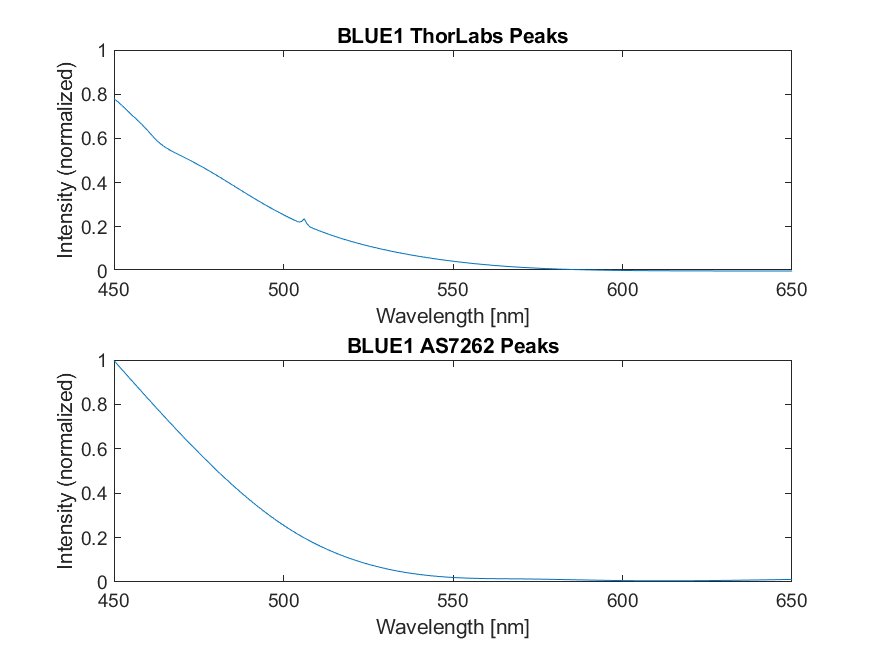
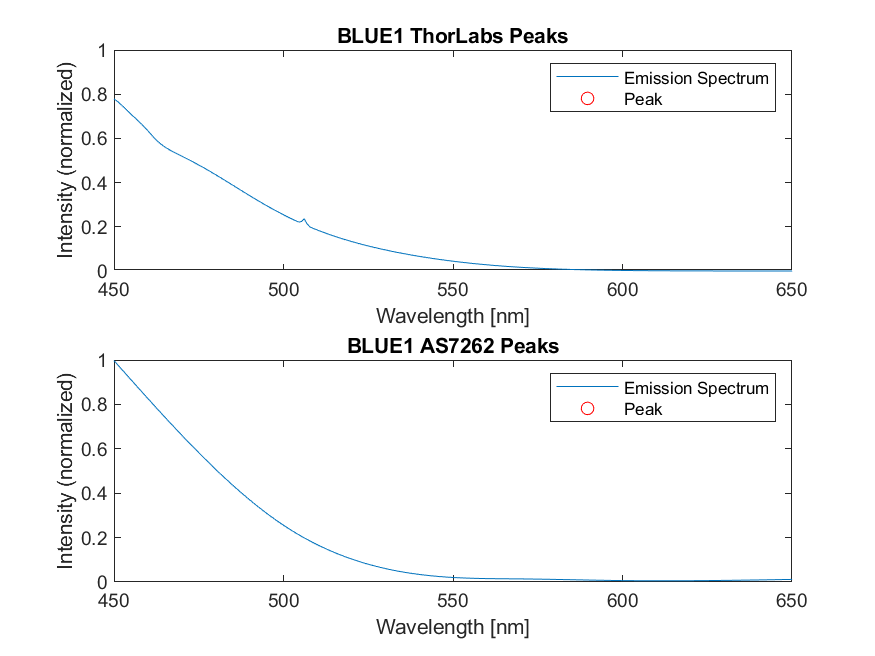
update

diff --git a/MATLAB Code/ResultsSet1/BLUE_LEDs/BLUE_RS1_Code.m b/MATLAB Code/ResultsSet1/BLUE_LEDs/BLUE_RS1_Code.m
@@ -58,13 +58,14 @@ spectrum_B1_TL_yData = get(spectrum_B1_TL_plot,'yData')';
 spectrum_B1_AS_xData = get(spectrum_B1_AS_plot,'xData')';
 spectrum_B1_AS_yData = get(spectrum_B1_AS_plot,'yData')';
 
-[spectrum_B1_TL_peaks,locs_B1_1]=findpeaks(spectrum_B1_TL_yData,'MinPeakHeight', 0.3);
-[spectrum_B1_AS_peaks,locs_B1_2]=findpeaks(spectrum_B1_AS_yData,'MinPeakHeight', 0.3);
+[spectrum_B1_TL_peaks,locs_B1_1]=findpeaks(spectrum_B1_TL_yData,"NPeaks",1,"SortStr","descend");
+[spectrum_B1_AS_peaks,locs_B1_2]=findpeaks(spectrum_B1_AS_yData,"NPeaks",1,"SortStr","descend");
 
 figure(3)
 subplot(2,1,1);
 plot(spectrum_B1_TL_xData,spectrum_B1_TL_yData,spectrum_B1_TL_xData(locs_B1_1),spectrum_B1_TL_peaks,'or')
 axis([450 650 0 1])
+legend("Emission Spectrum","Peak",'Location','northeast');
 xlabel("Wavelength [nm]");
 ylabel("Intensity (normalized)");
 title("BLUE1 ThorLabs Peaks")
@@ -72,6 +73,7 @@ title("BLUE1 ThorLabs Peaks")
 subplot(2,1,2);
 plot(spectrum_B1_AS_xData,spectrum_B1_AS_yData,spectrum_B1_AS_xData(locs_B1_2),spectrum_B1_AS_peaks,'or')
 axis([450 650 0 1])
+legend("Emission Spectrum","Peak",'Location','northeast');
 xlabel("Wavelength [nm]");
 ylabel("Intensity (normalized)");
 title("BLUE1 AS7262 Peaks")
@@ -121,13 +123,14 @@ spectrum_B2_TL_yData = get(spectrum_B2_TL_plot,'yData')';
 spectrum_B2_AS_xData = get(spectrum_B2_AS_plot,'xData')';
 spectrum_B2_AS_yData = get(spectrum_B2_AS_plot,'yData')';
 
-[spectrum_B2_TL_peaks,locs_B2_1]=findpeaks(spectrum_B2_TL_yData,'MinPeakHeight', 0.3);
-[spectrum_B2_AS_peaks,locs_B2_2]=findpeaks(spectrum_B2_AS_yData,'MinPeakHeight', 0.3);
+[spectrum_B2_TL_peaks,locs_B2_1]=findpeaks(spectrum_B2_TL_yData,"NPeaks",1,"SortStr","descend");
+[spectrum_B2_AS_peaks,locs_B2_2]=findpeaks(spectrum_B2_AS_yData,"NPeaks",1,"SortStr","descend");
 
 figure(6)
 subplot(2,1,1);
 plot(spectrum_B2_TL_xData,spectrum_B2_TL_yData,spectrum_B2_TL_xData(locs_B2_1),spectrum_B2_TL_peaks,'or')
 axis([450 650 0 1])
+legend("Emission Spectrum","Peak",'Location','northeast');
 xlabel("Wavelength [nm]");
 ylabel("Intensity (normalized)");
 title("BLUE2 ThorLabs Peaks")
@@ -135,6 +138,7 @@ title("BLUE2 ThorLabs Peaks")
 subplot(2,1,2);
 plot(spectrum_B2_AS_xData,spectrum_B2_AS_yData,spectrum_B2_AS_xData(locs_B2_2),spectrum_B2_AS_peaks,'or')
 axis([450 650 0 1])
+legend("Emission Spectrum","Peak",'Location','northeast');
 xlabel("Wavelength [nm]");
 ylabel("Intensity (normalized)");
 title("BLUE2 AS7262 Peaks")
@@ -184,13 +188,14 @@ spectrum_B3_TL_yData = get(spectrum_B3_TL_plot,'yData')';
 spectrum_B3_AS_xData = get(spectrum_B3_AS_plot,'xData')';
 spectrum_B3_AS_yData = get(spectrum_B3_AS_plot,'yData')';
 
-[spectrum_B3_TL_peaks,locs_B3_1]=findpeaks(spectrum_B3_TL_yData,'MinPeakHeight', 0.3);
-[spectrum_B3_AS_peaks,locs_B3_2]=findpeaks(spectrum_B3_AS_yData,'MinPeakHeight', 0.3);
+[spectrum_B3_TL_peaks,locs_B3_1]=findpeaks(spectrum_B3_TL_yData,"NPeaks",1,"SortStr","descend");
+[spectrum_B3_AS_peaks,locs_B3_2]=findpeaks(spectrum_B3_AS_yData,"NPeaks",1,"SortStr","descend");
 
 figure(9)
 subplot(2,1,1);
 plot(spectrum_B3_TL_xData,spectrum_B3_TL_yData,spectrum_B3_TL_xData(locs_B3_1),spectrum_B3_TL_peaks,'or')
 axis([450 650 0 1])
+legend("Emission Spectrum","Peak",'Location','northeast');
 xlabel("Wavelength [nm]");
 ylabel("Intensity (normalized)");
 title("BLUE3 ThorLabs Peaks")
@@ -198,6 +203,7 @@ title("BLUE3 ThorLabs Peaks")
 subplot(2,1,2);
 plot(spectrum_B3_AS_xData,spectrum_B3_AS_yData,spectrum_B3_AS_xData(locs_B3_2),spectrum_B3_AS_peaks,'or')
 axis([450 650 0 1])
+legend("Emission Spectrum","Peak",'Location','northeast');
 xlabel("Wavelength [nm]");
 ylabel("Intensity (normalized)");
 title("BLUE3 AS7262 Peaks")
@@ -247,13 +253,14 @@ spectrum_B4_TL_yData = get(spectrum_B4_TL_plot,'yData')';
 spectrum_B4_AS_xData = get(spectrum_B4_AS_plot,'xData')';
 spectrum_B4_AS_yData = get(spectrum_B4_AS_plot,'yData')';
 
-[spectrum_B4_TL_peaks,locs_B4_1]=findpeaks(spectrum_B4_TL_yData,'MinPeakHeight', 0.3);
-[spectrum_B4_AS_peaks,locs_B4_2]=findpeaks(spectrum_B4_AS_yData,'MinPeakHeight', 0.3);
+[spectrum_B4_TL_peaks,locs_B4_1]=findpeaks(spectrum_B4_TL_yData,"NPeaks",1,"SortStr","descend");
+[spectrum_B4_AS_peaks,locs_B4_2]=findpeaks(spectrum_B4_AS_yData,"NPeaks",1,"SortStr","descend");
 
 figure(12)
 subplot(2,1,1);
 plot(spectrum_B4_TL_xData,spectrum_B4_TL_yData,spectrum_B4_TL_xData(locs_B4_1),spectrum_B4_TL_peaks,'or')
 axis([450 650 0 1])
+legend("Emission Spectrum","Peak",'Location','northeast');
 xlabel("Wavelength [nm]");
 ylabel("Intensity (normalized)");
 title("BLUE4 ThorLabs Peaks")
@@ -261,6 +268,7 @@ title("BLUE4 ThorLabs Peaks")
 subplot(2,1,2);
 plot(spectrum_B4_AS_xData,spectrum_B4_AS_yData,spectrum_B4_AS_xData(locs_B4_2),spectrum_B4_AS_peaks,'or')
 axis([450 650 0 1])
+legend("Emission Spectrum","Peak",'Location','northeast');
 xlabel("Wavelength [nm]");
 ylabel("Intensity (normalized)");
 title("BLUE4 AS7262 Peaks")
@@ -310,13 +318,14 @@ spectrum_B10_TL_yData = get(spectrum_B10_TL_plot,'yData')';
 spectrum_B10_AS_xData = get(spectrum_B10_AS_plot,'xData')';
 spectrum_B10_AS_yData = get(spectrum_B10_AS_plot,'yData')';
 
-[spectrum_B10_TL_peaks,locs_B10_1]=findpeaks(spectrum_B10_TL_yData,'MinPeakHeight', 0.3);
-[spectrum_B10_AS_peaks,locs_B10_2]=findpeaks(spectrum_B10_AS_yData,'MinPeakHeight', 0.3);
+[spectrum_B10_TL_peaks,locs_B10_1]=findpeaks(spectrum_B10_TL_yData,"NPeaks",1,"SortStr","descend");
+[spectrum_B10_AS_peaks,locs_B10_2]=findpeaks(spectrum_B10_AS_yData,"NPeaks",1,"SortStr","descend");
 
 figure(15)
 subplot(2,1,1);
 plot(spectrum_B10_TL_xData,spectrum_B10_TL_yData,spectrum_B10_TL_xData(locs_B10_1),spectrum_B10_TL_peaks,'or')
 axis([450 650 0 1])
+legend("Emission Spectrum","Peak",'Location','northeast');
 xlabel("Wavelength [nm]");
 ylabel("Intensity (normalized)");
 title("BLUE10 ThorLabs Peaks")
@@ -324,6 +333,7 @@ title("BLUE10 ThorLabs Peaks")
 subplot(2,1,2);
 plot(spectrum_B10_AS_xData,spectrum_B10_AS_yData,spectrum_B10_AS_xData(locs_B10_2),spectrum_B10_AS_peaks,'or')
 axis([450 650 0 1])
+legend("Emission Spectrum","Peak",'Location','northeast');
 xlabel("Wavelength [nm]");
 ylabel("Intensity (normalized)");
 title("BLUE10 AS7262 Peaks")
@@ -373,13 +383,14 @@ spectrum_BAS7263_TL_yData = get(spectrum_BAS7263_TL_plot,'yData')';
 spectrum_BAS7263_AS_xData = get(spectrum_BAS7263_AS_plot,'xData')';
 spectrum_BAS7263_AS_yData = get(spectrum_BAS7263_AS_plot,'yData')';
 
-[spectrum_BAS7263_TL_peaks,locs_BAS7263_1]=findpeaks(spectrum_BAS7263_TL_yData,'MinPeakHeight', 0.3);
-[spectrum_BAS7263_AS_peaks,locs_BAS7263_2]=findpeaks(spectrum_BAS7263_AS_yData,'MinPeakHeight', 0.3);
+[spectrum_BAS7263_TL_peaks,locs_BAS7263_1]=findpeaks(spectrum_BAS7263_TL_yData,"NPeaks",1,"SortStr","descend");
+[spectrum_BAS7263_AS_peaks,locs_BAS7263_2]=findpeaks(spectrum_BAS7263_AS_yData,"NPeaks",1,"SortStr","descend");
 
 figure(18)
 subplot(2,1,1);
 plot(spectrum_BAS7263_TL_xData,spectrum_BAS7263_TL_yData,spectrum_BAS7263_TL_xData(locs_BAS7263_1),spectrum_BAS7263_TL_peaks,'or')
 axis([450 650 0 1])
+legend("Emission Spectrum","Peak",'Location','northeast');
 xlabel("Wavelength [nm]");
 ylabel("Intensity (normalized)");
 title("BLUE AS7263 ThorLabs Peaks")
@@ -387,6 +398,7 @@ title("BLUE AS7263 ThorLabs Peaks")
 subplot(2,1,2);
 plot(spectrum_BAS7263_AS_xData,spectrum_BAS7263_AS_yData,spectrum_BAS7263_AS_xData(locs_BAS7263_2),spectrum_BAS7263_AS_peaks,'or')
 axis([450 650 0 1])
+legend("Emission Spectrum","Peak",'Location','northeast');
 xlabel("Wavelength [nm]");
 ylabel("Intensity (normalized)");
 title("BLUE AS7263 AS7262 Peaks")
@@ -436,13 +448,14 @@ spectrum_BESP32_TL_yData = get(spectrum_BESP32_TL_plot,'yData')';
 spectrum_BESP32_AS_xData = get(spectrum_BESP32_AS_plot,'xData')';
 spectrum_BESP32_AS_yData = get(spectrum_BESP32_AS_plot,'yData')';
 
-[spectrum_BESP32_TL_peaks,locs_BESP32_1]=findpeaks(spectrum_BESP32_TL_yData,'MinPeakHeight', 0.05);
-[spectrum_BESP32_AS_peaks,locs_BESP32_2]=findpeaks(spectrum_BESP32_AS_yData,'MinPeakHeight', 0.05);
+[spectrum_BESP32_TL_peaks,locs_BESP32_1]=findpeaks(spectrum_BESP32_TL_yData,"NPeaks",1,"SortStr","descend");
+[spectrum_BESP32_AS_peaks,locs_BESP32_2]=findpeaks(spectrum_BESP32_AS_yData,"NPeaks",1,"SortStr","descend");
 
 figure(21)
 subplot(2,1,1);
 plot(spectrum_BESP32_TL_xData,spectrum_BESP32_TL_yData,spectrum_BESP32_TL_xData(locs_BESP32_1),spectrum_BESP32_TL_peaks,'or')
 axis([450 650 0 1])
+legend("Emission Spectrum","Peak",'Location','northeast');
 xlabel("Wavelength [nm]");
 ylabel("Intensity (normalized)");
 title("BLUE ESP32 ThorLabs Peaks")
@@ -450,6 +463,7 @@ title("BLUE ESP32 ThorLabs Peaks")
 subplot(2,1,2);
 plot(spectrum_BESP32_AS_xData,spectrum_BESP32_AS_yData,spectrum_BESP32_AS_xData(locs_BESP32_2),spectrum_BESP32_AS_peaks,'or')
 axis([450 650 0 1])
+legend("Emission Spectrum","Peak",'Location','northeast');
 xlabel("Wavelength [nm]");
 ylabel("Intensity (normalized)");
 title("BLUE ESP32 AS7262 Peaks")
@@ -499,13 +513,14 @@ spectrum_BSTRIP_TL_yData = get(spectrum_BSTRIP_TL_plot,'yData')';
 spectrum_BSTRIP_AS_xData = get(spectrum_BSTRIP_AS_plot,'xData')';
 spectrum_BSTRIP_AS_yData = get(spectrum_BSTRIP_AS_plot,'yData')';
 
-[spectrum_BSTRIP_TL_peaks,locs_BSTRIP_1]=findpeaks(spectrum_BSTRIP_TL_yData,'MinPeakHeight', 0.05);
-[spectrum_BSTRIP_AS_peaks,locs_BSTRIP_2]=findpeaks(spectrum_BSTRIP_AS_yData,'MinPeakHeight', 0.05);
+[spectrum_BSTRIP_TL_peaks,locs_BSTRIP_1]=findpeaks(spectrum_BSTRIP_TL_yData,"NPeaks",1,"SortStr","descend");
+[spectrum_BSTRIP_AS_peaks,locs_BSTRIP_2]=findpeaks(spectrum_BSTRIP_AS_yData,"NPeaks",1,"SortStr","descend");
 
 figure(24)
 subplot(2,1,1);
 plot(spectrum_BSTRIP_TL_xData,spectrum_BSTRIP_TL_yData,spectrum_BSTRIP_TL_xData(locs_BSTRIP_1),spectrum_BSTRIP_TL_peaks,'or')
 axis([450 650 0 1])
+legend("Emission Spectrum","Peak",'Location','northeast');
 xlabel("Wavelength [nm]");
 ylabel("Intensity (normalized)");
 title("BLUE STRIP ThorLabs Peaks")
@@ -513,6 +528,7 @@ title("BLUE STRIP ThorLabs Peaks")
 subplot(2,1,2);
 plot(spectrum_BSTRIP_AS_xData,spectrum_BSTRIP_AS_yData,spectrum_BSTRIP_AS_xData(locs_BSTRIP_2),spectrum_BSTRIP_AS_peaks,'or')
 axis([450 650 0 1])
+legend("Emission Spectrum","Peak",'Location','northeast');
 xlabel("Wavelength [nm]");
 ylabel("Intensity (normalized)");
 title("BLUE STRIP AS7262 Peaks")
